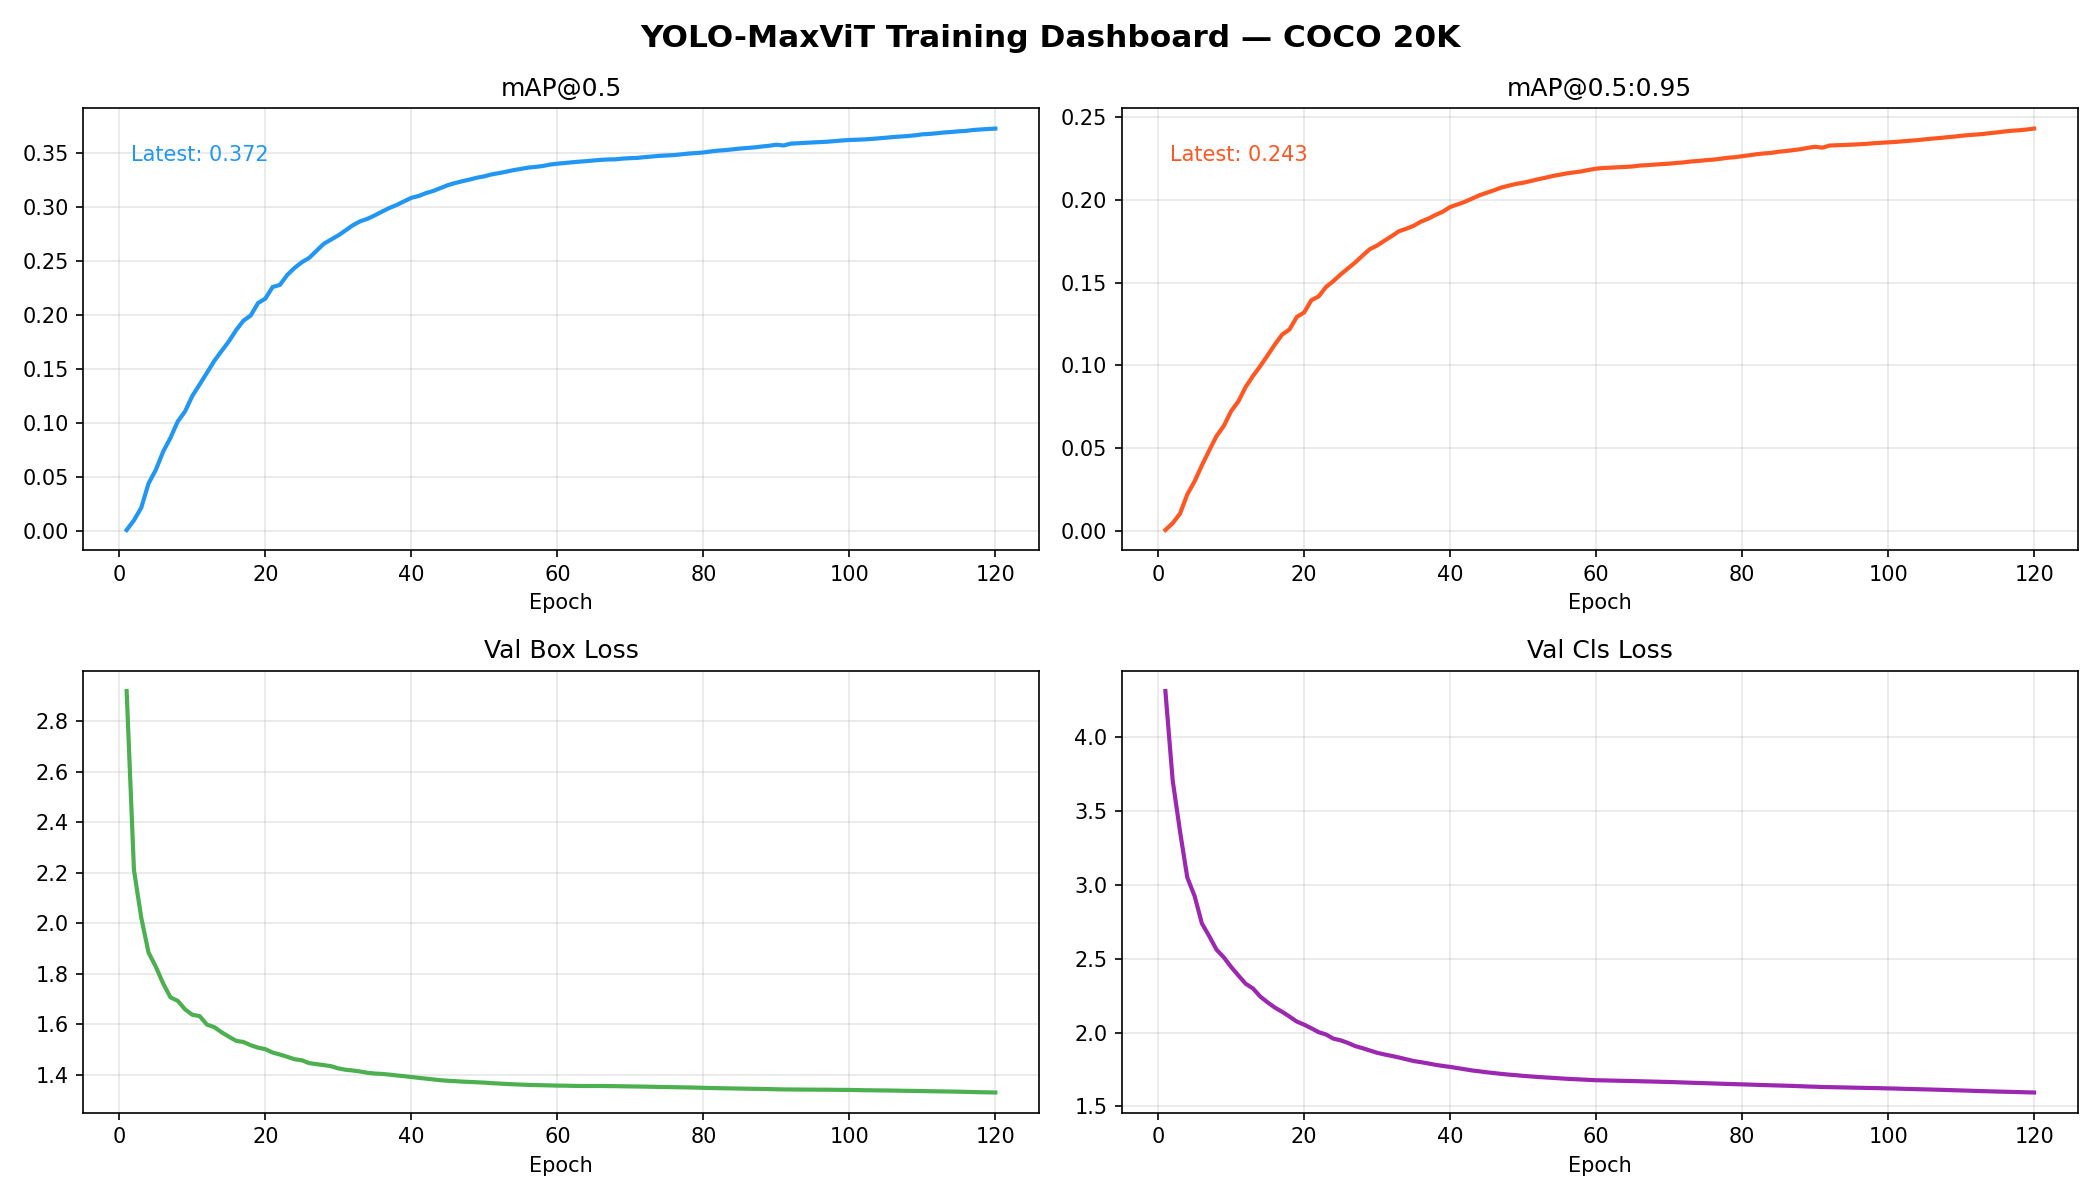
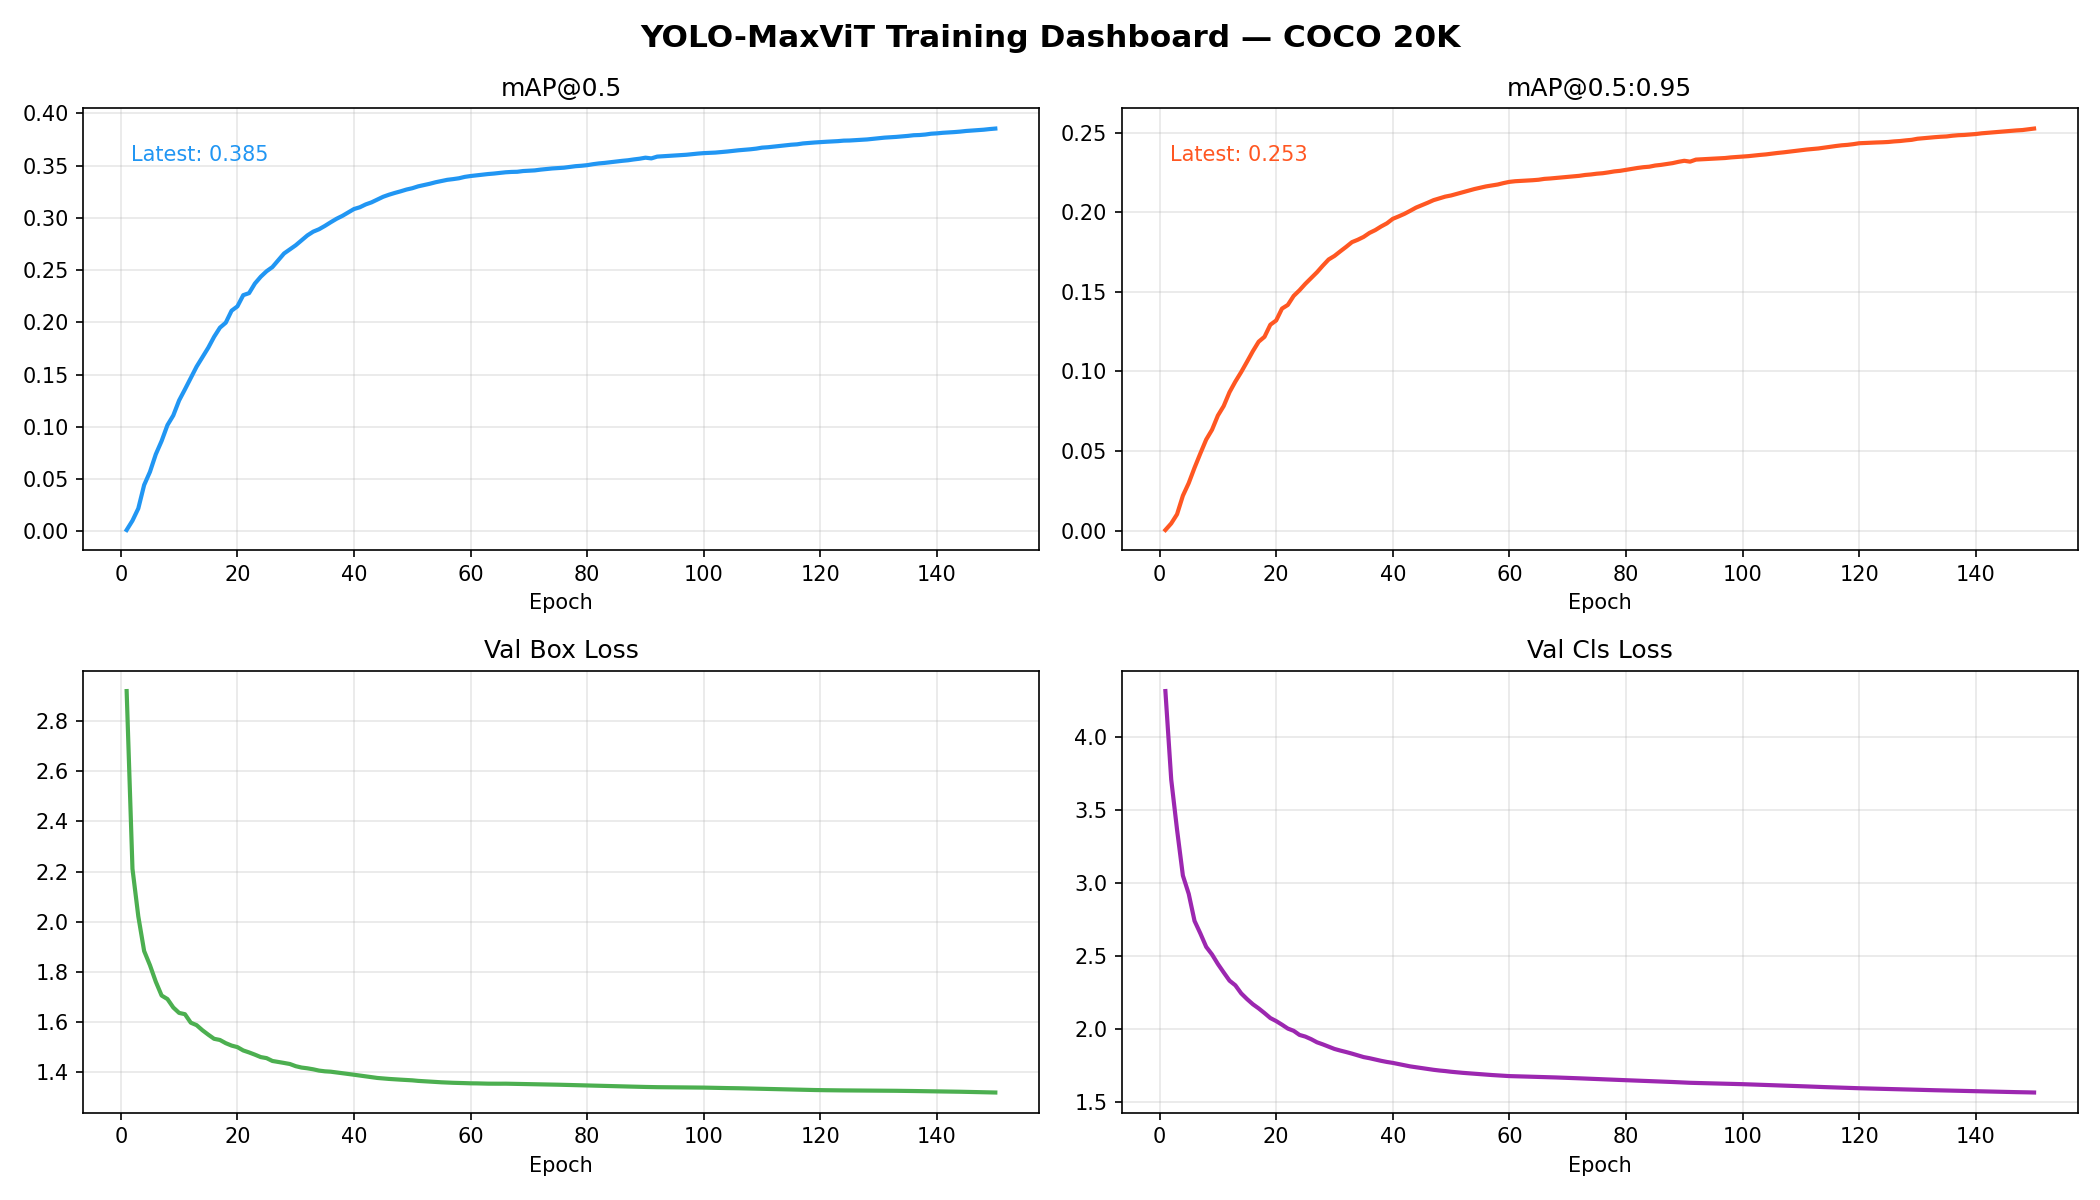
Update training results to epoch 150 (mAP50=0.385, mAP50-95=0.253)

diff --git a/README.md b/README.md
@@ -105,14 +105,14 @@ Set `RESUME = True` in `train_custom.py` to continue from `last.pt`.
 
 ## 📊 Results
 
-> ⏳ Training in progress (120/300 epochs complete) — table will be updated as training continues.
+> ⏳ Training in progress (150/300 epochs complete) — table will be updated as training continues.
 
 ### Current Best Checkpoint
 
 | Model | Dataset | Epochs Run | mAP@0.5 | mAP@0.5:0.95 | Status |
 |---|---|---|---|---|---|
 | YOLOv11n (baseline) | COCO 2017 | 300 | 0.516 | 0.386 | Reference |
-| **YOLO-MaxViT (ours)** | COCO 20K subset | 120 / 300 | **0.372** | **0.243** | 🔄 In Progress |
+| **YOLO-MaxViT (ours)** | COCO 20K subset | 150 / 300 | **0.385** | **0.253** | 🔄 In Progress |
 
 ### Training Progress
 
@@ -122,7 +122,8 @@ Set `RESUME = True` in `train_custom.py` to continue from `last.pt`.
 | 30 | 0.274 | 0.173 | 1.423 | 2.150 |
 | 60 | 0.340 | 0.219 | 1.343 | 1.878 |
 | 90 | 0.358 | 0.232 | 1.307 | 1.767 |
-| **120** | **0.372** | **0.243** | **1.282** | **1.691** |
+| 120 | 0.372 | 0.243 | 1.282 | 1.691 |
+| **150** | **0.385** | **0.253** | **1.257** | **1.619** |
 
 ### Training Curves
 